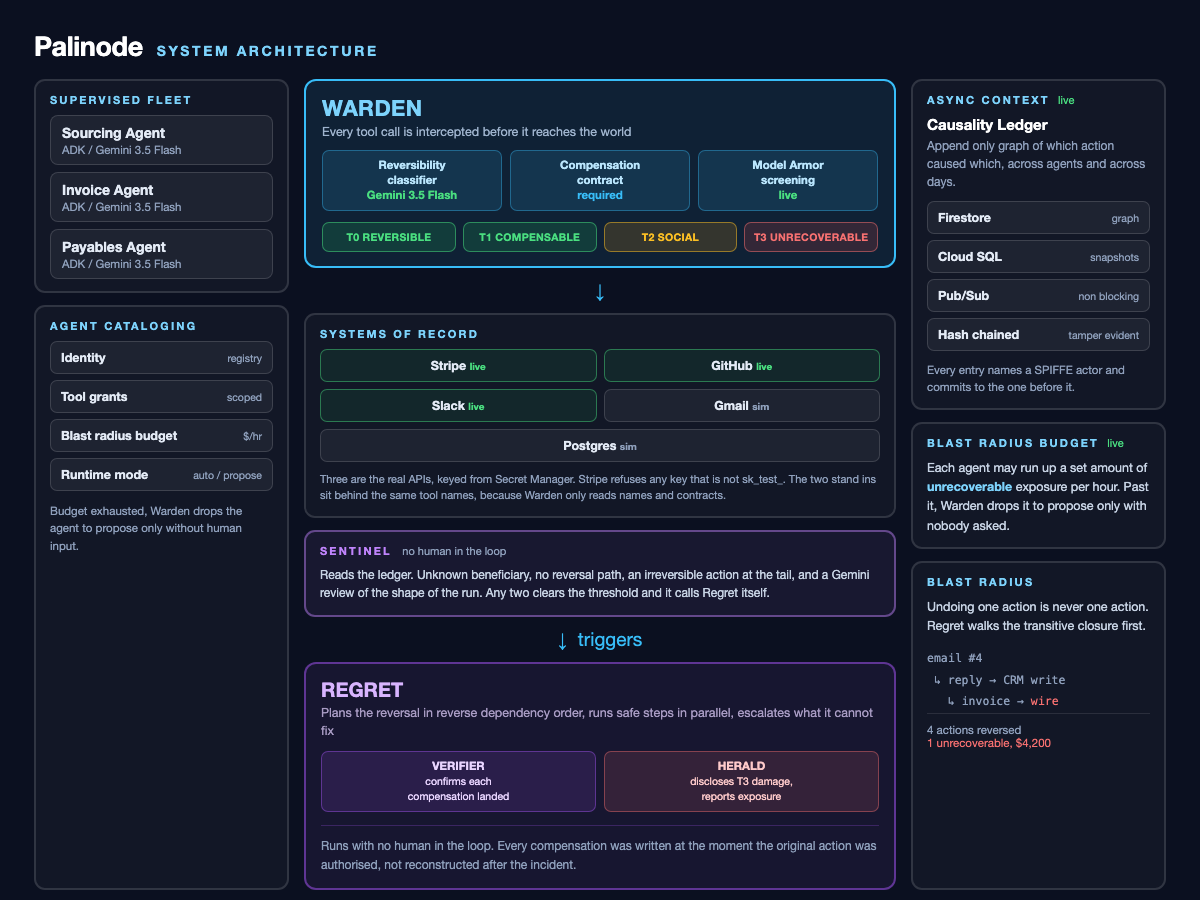
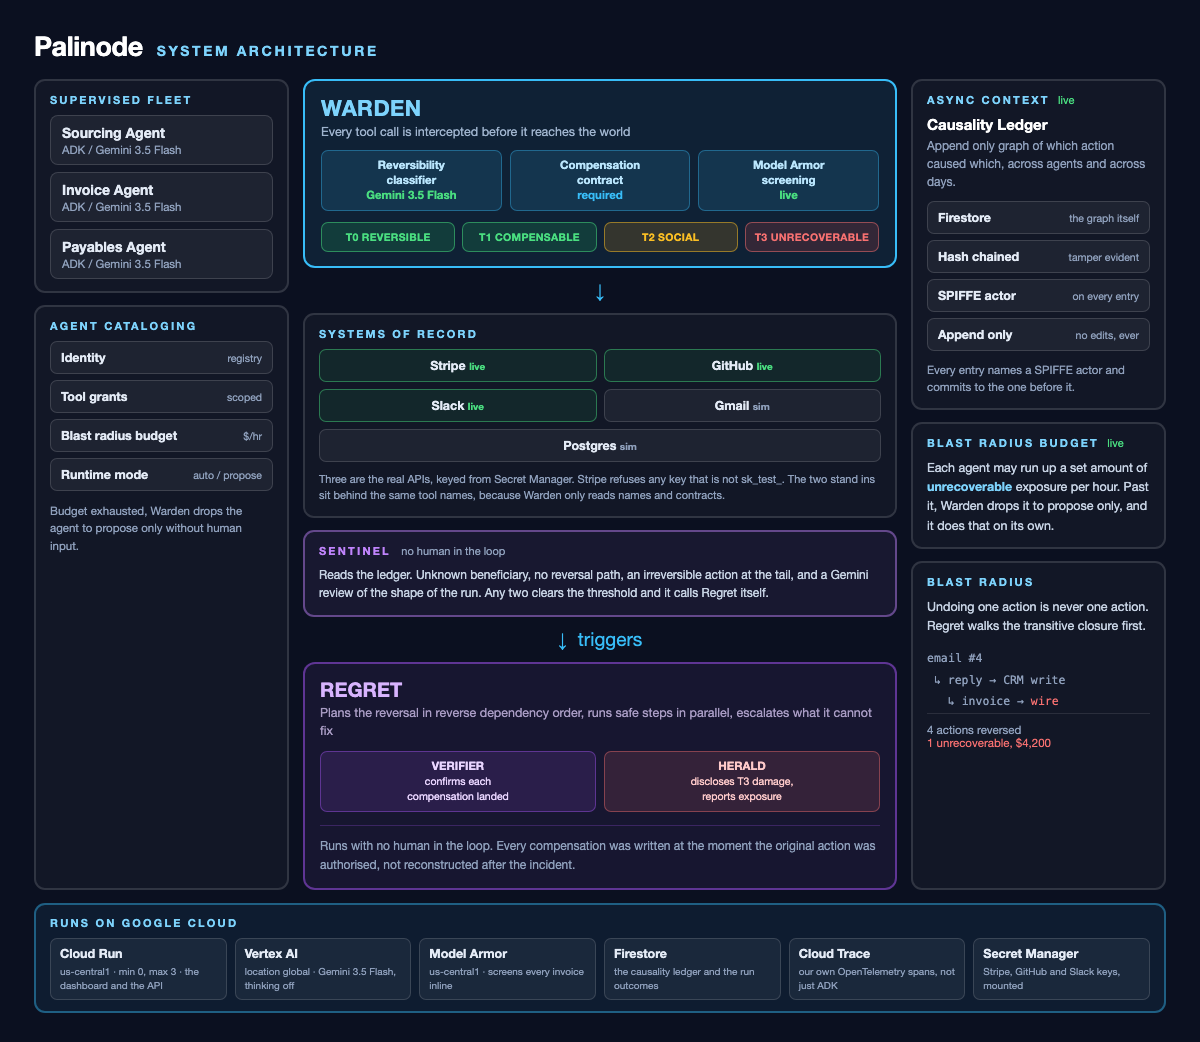
kill the white flash at the cut, and say only what is deployed
The recorder starts before the page does, so the take opened on half a
second of about:blank and it read as a flash at 0:41.

The diagram had Cloud SQL and Pub/Sub under a heading marked live. Neither
is deployed. Replaced with the four things that are actually true of the
ledger, and added the strip along the bottom naming what runs where, which
is what the brief asks the diagram to show.

Changed region(s): [[0.0308, 0.0311, 0.9867, 0.9956]]

diff --git a/docs/src/architecture.html b/docs/src/architecture.html
@@ -1,12 +1,12 @@
 <!doctype html>
 <html><head><meta charset="utf-8"><style>
 *{margin:0;padding:0;box-sizing:border-box}
-html,body{width:1200px;height:800px}
+html,body{width:1200px}
 body{background:#0B1020;font-family:"Helvetica Neue",Helvetica,Arial,sans-serif;color:#fff;padding:30px 34px}
 .hdr{display:flex;align-items:baseline;gap:14px;margin-bottom:16px}
 .hdr h1{font-size:27px;font-weight:800;letter-spacing:-.4px}
 .hdr span{font-size:14px;color:#7DD3FC;letter-spacing:2.6px;font-weight:700}
-.grid{display:grid;grid-template-columns:255px 1fr 255px;gap:15px;height:702px}
+.grid{display:grid;grid-template-columns:255px 1fr 255px;gap:14px}
 .col{display:flex;flex-direction:column;gap:12px}
 .box{border:2px solid rgba(255,255,255,.13);border-radius:11px;padding:12px 14px;background:rgba(255,255,255,.028)}
 .t{font-size:11px;letter-spacing:2.2px;font-weight:800;color:#7DD3FC;margin-bottom:9px}
@@ -31,6 +31,12 @@ body{background:#0B1020;font-family:"Helvetica Neue",Helvetica,Arial,sans-serif;
 .gcp em{font-style:normal;font-size:10.5px;color:#8FA0BC;font-weight:400}
 .arw{text-align:center;color:#38BDF8;font-size:19px;line-height:1;margin:1px 0}
 .ftr{margin-top:auto;border-top:1.5px solid rgba(255,255,255,.1);padding-top:9px;font-size:11.5px;color:#8FA0BC;text-align:center}
+.strip{margin-top:13px;border:2px solid rgba(56,189,248,.42);background:rgba(56,189,248,.07);border-radius:11px;padding:11px 14px}
+.st{font-size:11px;letter-spacing:2.2px;font-weight:800;color:#7DD3FC;margin-bottom:9px}
+.sr{display:grid;grid-template-columns:repeat(6,1fr);gap:8px}
+.sv{background:rgba(255,255,255,.05);border:1.5px solid rgba(255,255,255,.14);border-radius:7px;padding:7px 9px}
+.sv b{display:block;font-size:12.5px;color:#E4EBF6}
+.sv em{display:block;font-style:normal;font-size:10px;color:#8FA0BC;line-height:1.4;margin-top:3px}
 </style></head><body>
 <div class="hdr"><h1>Palinode</h1><span>SYSTEM ARCHITECTURE</span></div>
 <div class="grid">
@@ -116,10 +122,10 @@ body{background:#0B1020;font-family:"Helvetica Neue",Helvetica,Arial,sans-serif;
       <div class="t">ASYNC CONTEXT <span style="color:#4ADE80;font-weight:400;letter-spacing:0">&nbsp;live</span></div>
       <div style="font-size:15px;font-weight:800;margin-bottom:4px">Causality Ledger</div>
       <div style="font-size:12px;color:#8FA0BC;line-height:1.5;margin-bottom:10px">Append only graph of which action caused which, across agents and across days.</div>
-      <div class="gcp">Firestore <em>graph</em></div>
-      <div class="gcp">Cloud SQL <em>snapshots</em></div>
-      <div class="gcp">Pub/Sub <em>non blocking</em></div>
-      <div class="gcp" style="margin-bottom:0">Hash chained <em>tamper evident</em></div>
+      <div class="gcp">Firestore <em>the graph itself</em></div>
+      <div class="gcp">Hash chained <em>tamper evident</em></div>
+      <div class="gcp">SPIFFE actor <em>on every entry</em></div>
+      <div class="gcp" style="margin-bottom:0">Append only <em>no edits, ever</em></div>
       <div style="margin-top:10px;font-size:11.5px;color:#8FA0BC;line-height:1.5">
         Every entry names a SPIFFE actor and commits to the one before it.
       </div>
@@ -127,7 +133,7 @@ body{background:#0B1020;font-family:"Helvetica Neue",Helvetica,Arial,sans-serif;
 
     <div class="box" style="flex:0 0 auto">
       <div class="t">BLAST RADIUS BUDGET <span style="color:#4ADE80;font-weight:400;letter-spacing:0">&nbsp;live</span></div>
-      <div style="font-size:12.5px;color:#C7D3E4;line-height:1.55">Each agent may run up a set amount of <b style="color:#7DD3FC">unrecoverable</b> exposure per hour. Past it, Warden drops it to propose only with nobody asked.</div>
+      <div style="font-size:12.5px;color:#C7D3E4;line-height:1.55">Each agent may run up a set amount of <b style="color:#7DD3FC">unrecoverable</b> exposure per hour. Past it, Warden drops it to propose only, and it does that on its own.</div>
     </div>
 
     <div class="box" style="flex:1">
@@ -140,6 +146,17 @@ body{background:#0B1020;font-family:"Helvetica Neue",Helvetica,Arial,sans-serif;
       </div>
       <div class="ftr" style="text-align:left">4 actions reversed<br><span style="color:#F87171">1 unrecoverable, $4,200</span></div>
     </div>
+  </div>
+</div>
+<div class="strip">
+  <div class="st">RUNS ON GOOGLE CLOUD</div>
+  <div class="sr">
+    <div class="sv"><b>Cloud Run</b><em>us-central1 &middot; min 0, max 3 &middot; the dashboard and the API</em></div>
+    <div class="sv"><b>Vertex AI</b><em>location global &middot; Gemini 3.5 Flash, thinking off</em></div>
+    <div class="sv"><b>Model Armor</b><em>us-central1 &middot; screens every invoice inline</em></div>
+    <div class="sv"><b>Firestore</b><em>the causality ledger and the run outcomes</em></div>
+    <div class="sv"><b>Cloud Trace</b><em>our own OpenTelemetry spans, not just ADK</em></div>
+    <div class="sv"><b>Secret Manager</b><em>Stripe, GitHub and Slack keys, mounted</em></div>
   </div>
 </div>
 </body></html>
